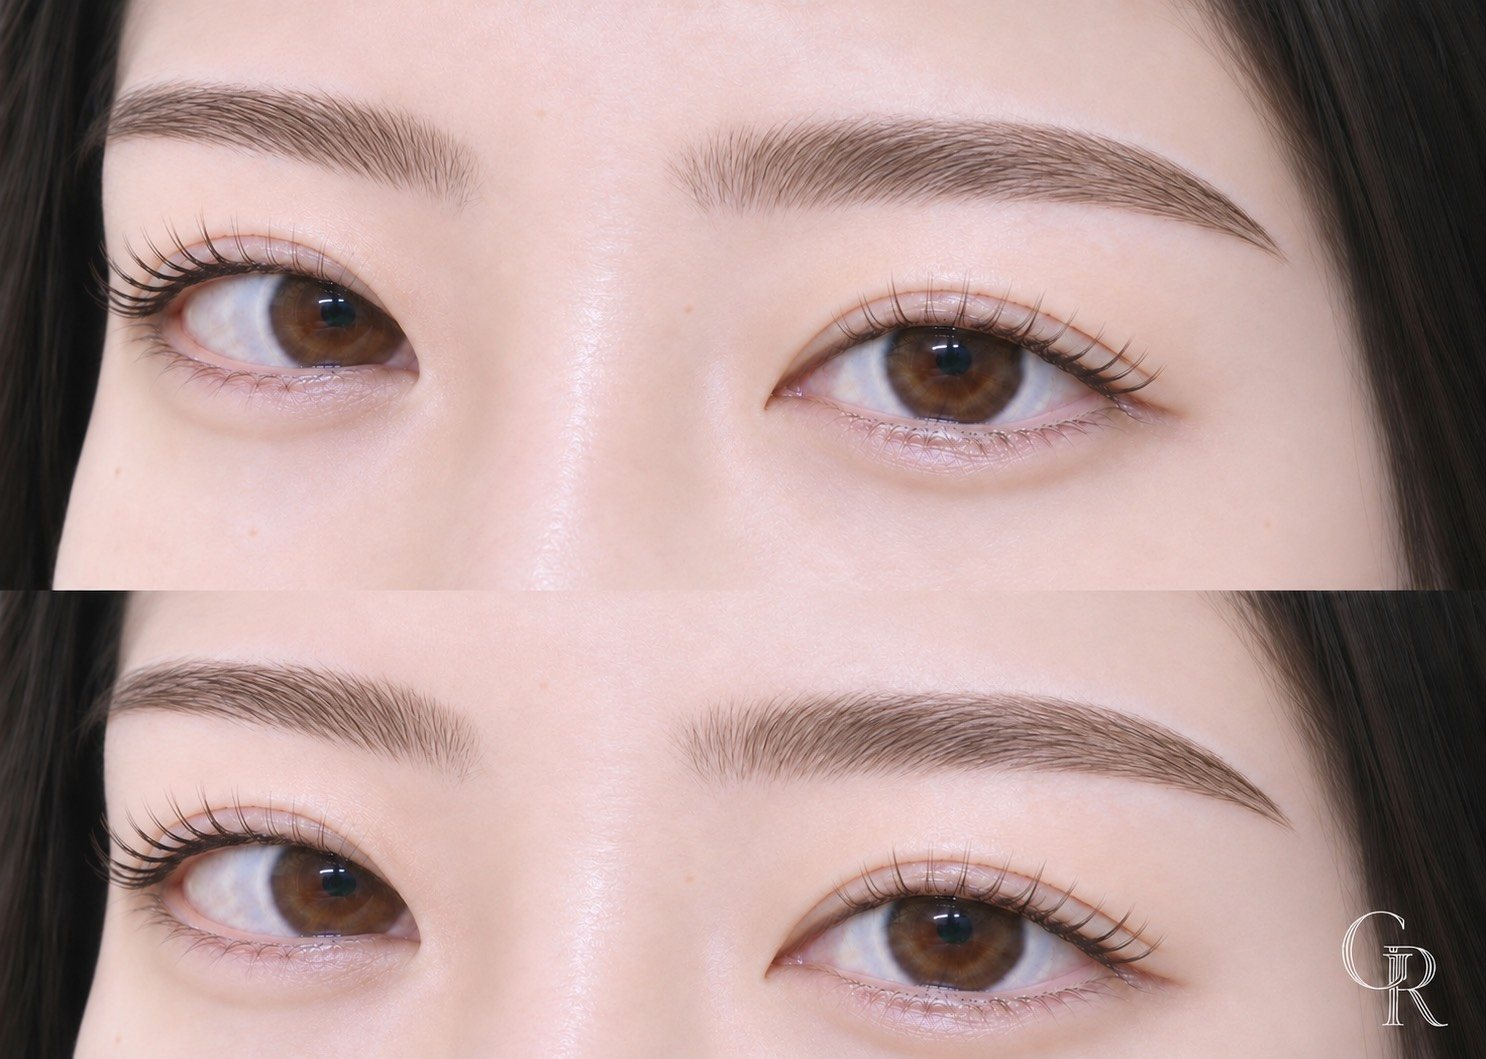
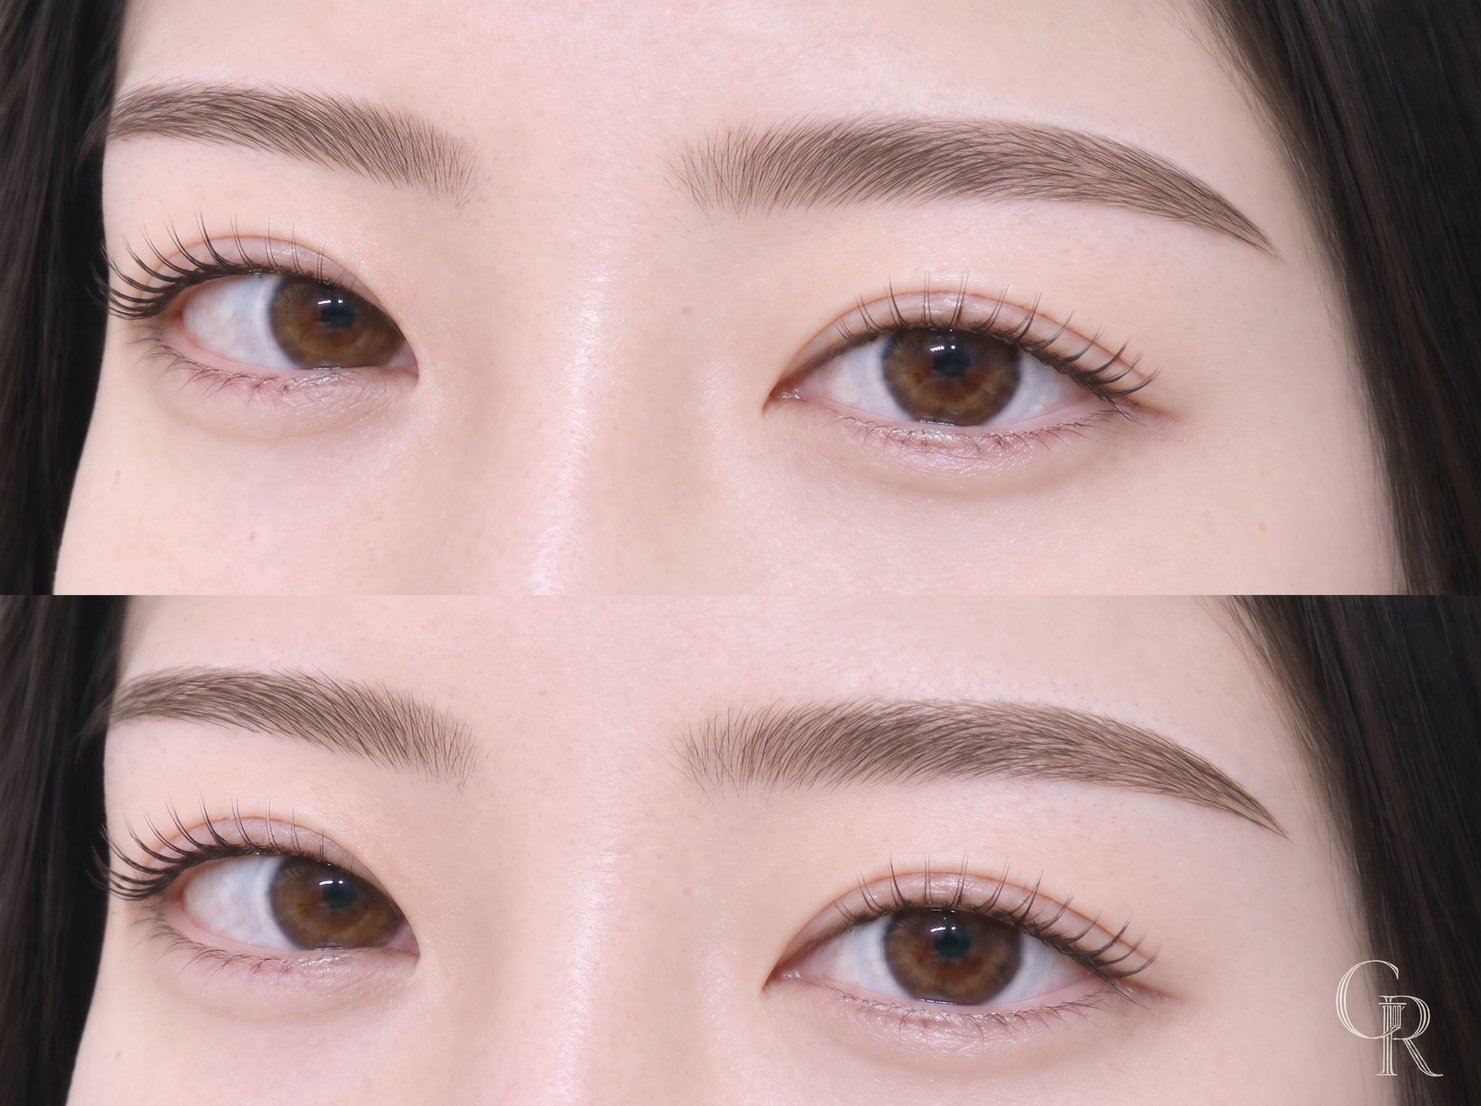
HBL＋まつげパーマの写真を新しいものに差し替え（LP・HP）
Claude-Session: https://claude.ai/code/session_013XGZNiCMNcb8DAKjvcnpcU

diff --git a/index.html b/index.html
@@ -394,7 +394,7 @@ footer a{text-decoration:none}
         <div class="slides" id="slides">
           <figure class="slide is-on" data-cap="グレーを基調にした、落ち着いた空間で。"><img src="img/salon.jpg" alt="Gracherの店内。グレーの施術チェアと黒い枠の鏡、糸のカーテンで仕切られた空間" width="1479" height="1109" fetchpriority="high"></figure>
           <figure class="slide case" style="--bg:url(img/case-hbl-1.jpg)" data-cap="仕上がり例｜HBL（左：施術前／右：施術後）" aria-hidden="true"><img src="img/case-hbl-1.jpg" alt="HBLの施術前と施術後の眉の比較" width="1200" height="900" loading="lazy"></figure>
-          <figure class="slide case" style="--bg:url(img/case-hbl-lash-1.jpg)" data-cap="仕上がり例｜HBL ＋ パーソナルまつげパーマ" aria-hidden="true"><img src="img/case-hbl-lash-1.jpg" alt="HBLとパーソナルまつげパーマの仕上がり例。眉と目元のアップ" width="1486" height="1059" loading="lazy"></figure>
+          <figure class="slide case" style="--bg:url(img/case-hbl-lash-1.jpg)" data-cap="仕上がり例｜HBL ＋ パーソナルまつげパーマ" aria-hidden="true"><img src="img/case-hbl-lash-1.jpg" alt="HBLとパーソナルまつげパーマの仕上がり例。眉と目元のアップ" width="1481" height="1106" loading="lazy"></figure>
           <figure class="slide case" style="--bg:url(img/case-lash-1.jpg)" data-cap="仕上がり例｜パーソナルまつげパーマ" aria-hidden="true"><img src="img/case-lash-1.jpg" alt="パーソナルまつげパーマの仕上がり例。目元のアップ" width="1448" height="1086" loading="lazy"></figure>
           <figure class="slide case" style="--bg:url(img/face-wax-1.jpg)" data-cap="フェイスWAX" data-note="※写真はイメージです。" aria-hidden="true"><img src="img/face-wax-1.jpg" alt="フェイスWAXの施術イメージ。頬にワックスを塗っているところ" width="1206" height="900" loading="lazy"></figure>
         </div>

diff --git a/lp/index.html b/lp/index.html
@@ -370,7 +370,7 @@ footer a{text-decoration:none}
 .lp-hero-head{grid-area:head}.lp-hero-photo{grid-area:photo;align-self:center}.lp-hero-body{grid-area:body;align-self:start}
 .lp-hero .kicker{margin:0}
 .lp-hero-photo{margin:0}
-.lp-hero-photo img{display:block;width:100%;height:auto;aspect-ratio:1486/1059;object-fit:cover}
+.lp-hero-photo img{display:block;width:100%;height:auto;aspect-ratio:1481/1106;object-fit:cover}
 .lp-hero-photo figcaption{font-size:.72rem;color:var(--muted);margin-top:.5rem;letter-spacing:.04em}
 .lp-hero h1{font-family:var(--display);font-weight:500;font-size:clamp(1.65rem,4.4vw,2.7rem);line-height:1.5;margin:.4rem 0 1rem;letter-spacing:.04em}
 .lp-hero .sub{color:var(--muted);margin:0 0 1.4rem}
@@ -448,7 +448,7 @@ footer a{text-decoration:none}
         <p class="kicker">EYEBROW &amp; EYELASH — TENJIN DAIMYO</p>
         <h1>自分に似合う眉とまつげが、<br>分からない方へ。</h1>
       </div>
-      <figure class="lp-hero-photo"><img src="/img/case-hbl-lash-1.jpg" alt="眉とまつげを一緒に整えた仕上がり例" width="1486" height="1059" fetchpriority="high"><figcaption>HBL ＋ まつげパーマ ※仕上がりには個人差があります</figcaption></figure>
+      <figure class="lp-hero-photo"><img src="/img/case-hbl-lash-1.jpg" alt="眉とまつげを一緒に整えた仕上がり例" width="1481" height="1106" fetchpriority="high"><figcaption>HBL ＋ まつげパーマ ※仕上がりには個人差があります</figcaption></figure>
       <div class="lp-hero-body">
         <p class="sub">福岡・天神大名の眉毛とまつげのサロン Gracher。HBL公認講師が在籍し、施術の前にお客様と一緒に形を決めて、鏡で確かめながら仕上げます。</p>
         <ul class="trust">
